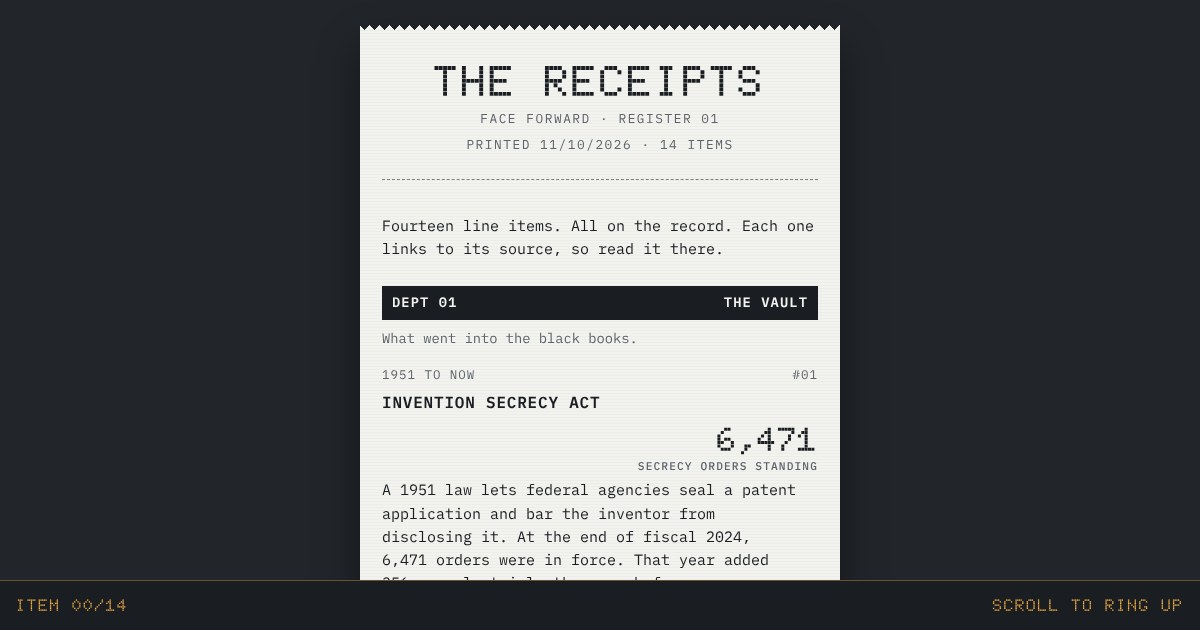
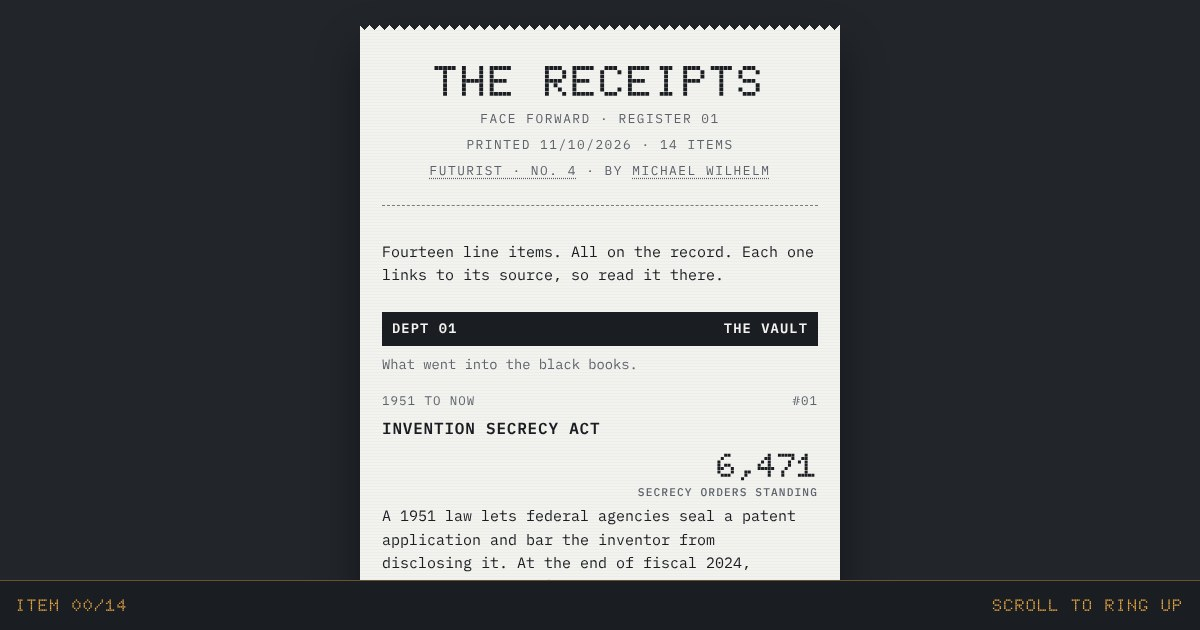
Face Forward and The Receipts: the links back and the shared foot
Each page gains what Everyone, Searchable carries: the series label (to
the series index), the byline (to the foyer) and the way back to the
Gallery in a line of its own masthead, and the shared foot (ScrollFoot)
after the piece. The foot takes the cards' dark panel on Face Forward and
sits on the counter under the tape on The Receipts, below the register
bar. Share images re-rendered. The sitemap is unchanged apart from the
two pages.

Claude-Session: https://claude.ai/code/session_01ATU162wbU7NAR5jKywjvrD

diff --git a/src/lib/futurist.ts b/src/lib/futurist.ts
@@ -16,9 +16,15 @@
  *   - LINKS holds the two cross-links between Face Forward and The
  *     Receipts, each one a named, exact replacement;
  *   - FIXES holds the repairs made since the files were approved, each one
- *     a named, exact replacement (the source files stay as approved).
+ *     a named, exact replacement (the source files stay as approved);
+ *   - the links back, as Everyone, Searchable carries them: the series label
+ *     (to the series index), the byline (to the foyer) and the way back to
+ *     the Gallery, set in a line of the page's own masthead (`back`);
+ *   - the shared foot (ScrollFoot). The document comes back in two halves,
+ *     split where the foot goes, and the page file renders the component
+ *     between them; FOOT_CSS dresses it for each page.
  *
- * Nothing is added around the page: no wrapper element, no site navigation, no foot.
+ * No wrapper element is added around the page.
  * Anything the function expects and does not find stops the build, so a
  * changed source file cannot ship half-mounted.
  */
@@ -107,6 +113,58 @@ const FIXES: Record<FuturistSlug, [string, string, string][]> = {
   ],
 };
 
+/**
+ * Where the shared foot goes, and how it sits on each page. The foot
+ * inherits the page's colour and face; these rules give it what each page
+ * needs beyond that.
+ *
+ * Face Forward: inside <main>, after the page's own footer, so it rides
+ * above the sky canvas like every card. The sky is bright morning by then,
+ * so the foot takes the cards' dark panel.
+ *
+ * The Receipts: after <main>, on the counter below the tape, in the paper
+ * colour. It gives up ScrollFoot's z-index so the register bar (fixed,
+ * later in the page) always rides above it, and it ends with the same
+ * clearance the page leaves for the bar under the tape.
+ */
+/* The source text the foot follows: [what, the exact text]. */
+const FOOT_AFTER: Record<FuturistSlug, [string, string]> = {
+  'face-forward': ["the page's own footer", '</footer>\n'],
+  'the-receipts': ['the end of <main>', '</main>\n'],
+};
+const FOOT_CSS: Record<FuturistSlug, string> = {
+  'face-forward':
+    '.scroll-foot.site-foot{--log:var(--body);width:calc(100% - 32px);max-width:66rem;margin:0 auto 56px;padding-left:20px;padding-right:20px;' +
+    'background:rgba(9,13,26,0.92);border:1px solid rgba(236,230,216,0.14);border-radius:4px;color:var(--bone)}',
+  'the-receipts':
+    '.scroll-foot.site-foot{--log:var(--body);z-index:auto;max-width:30rem;margin-top:0;padding-bottom:104px;color:var(--paper)}',
+};
+const FOOT_MARK = '<!--futurist:foot-->';
+
+/**
+ * The links back, in the page's own masthead: [what, the exact source
+ * text, its replacement]. The Gallery link is hidden in the share image
+ * (data-og-hide), like Everyone, Searchable's, and left out of the twin.
+ */
+const back = (slug: FuturistSlug, label: string, href: string): [string, string, string] => {
+  const a = 'style="color:inherit;white-space:nowrap"';
+  if (slug === 'face-forward') {
+    return [
+      'the byline',
+      '<p class="by">By Michael Wilhelm</p>',
+      `<p class="by">By <a href="/" rel="author" ${a}>Michael Wilhelm</a> · <a href="${href}" ${a}>${esc(label)}</a>` +
+        `<span data-og-hide data-twin-skip> · <a href="/gallery/" ${a}>The Gallery</a></span></p>`,
+    ];
+  }
+  return [
+    'the printed line',
+    '<p class="sub">PRINTED 11/10/2026 · 14 ITEMS</p>\n',
+    '<p class="sub">PRINTED 11/10/2026 · 14 ITEMS</p>\n' +
+      `      <p class="sub"><a href="${href}" ${a}>${esc(label.toUpperCase())}</a> · <span style="white-space:nowrap">BY <a href="/" rel="author" ${a}>MICHAEL WILHELM</a></span>` +
+      `<span data-og-hide data-twin-skip> · <a href="/gallery/" ${a}>THE GALLERY</a></span></p>\n`,
+  ];
+};
+
 const esc = (s: string) => s.replace(/&/g, '&amp;').replace(/"/g, '&quot;').replace(/</g, '&lt;').replace(/>/g, '&gt;');
 
 /** Replace exactly one occurrence, or stop the build. */
@@ -125,7 +183,8 @@ export function futuristSource(slug: FuturistSlug): string {
   return bytes.toString('utf8');
 }
 
-export async function futuristDocument(slug: FuturistSlug): Promise<string> {
+/** The page in two halves: everything before the shared foot, and everything after it. */
+export async function futuristDocument(slug: FuturistSlug): Promise<[string, string]> {
   let html = futuristSource(slug);
   const { night, preload } = FUTURIST_SOURCES[slug];
   const piece = await getPiece(slug);
@@ -144,7 +203,13 @@ export async function futuristDocument(slug: FuturistSlug): Promise<string> {
     return first ? '<!--futurist-fonts-->' : '';
   });
   if (/fonts\.g(oogleapis|static)\.com/.test(html)) throw new Error(`futurist: ${slug}: a Google Fonts reference was left in the page.`);
-  html = swap(html, '<!--futurist-fonts-->', `<style>\n${faces.join('\n')}\n</style>\n`, 'the Google Fonts stylesheet links', slug);
+  html = swap(
+    html,
+    '<!--futurist-fonts-->',
+    `<style>\n${faces.join('\n')}\n/* site: the shared foot on this page (src/lib/futurist.ts) */\n${FOOT_CSS[slug]}\n</style>\n`,
+    'the Google Fonts stylesheet links',
+    slug,
+  );
 
   /* Head: where the page lives, how it shares, what it is (as Poem.astro). */
   const canonical = new URL(piece.path, SITE_URL).href;
@@ -215,6 +280,12 @@ export async function futuristDocument(slug: FuturistSlug): Promise<string> {
   const [what, find, put] = LINKS[slug];
   html = swap(html, find, put, what, slug);
   for (const [fixed, from, to] of FIXES[slug]) html = swap(html, from, to, fixed, slug);
+  if (!piece.label) throw new Error(`futurist: ${slug}: the gallery entry needs a series number.`);
+  const [backWhat, backFrom, backTo] = back(slug, piece.label, s.href);
+  html = swap(html, backFrom, backTo, backWhat, slug);
 
-  return html.replace(/^<!DOCTYPE html>\n/i, '');
+  const [footWhat, footAfter] = FOOT_AFTER[slug];
+  html = swap(html, footAfter, `${footAfter}${FOOT_MARK}`, footWhat, slug);
+  const halves = html.replace(/^<!DOCTYPE html>\n/i, '').split(FOOT_MARK);
+  return [halves[0], halves[1]];
 }
